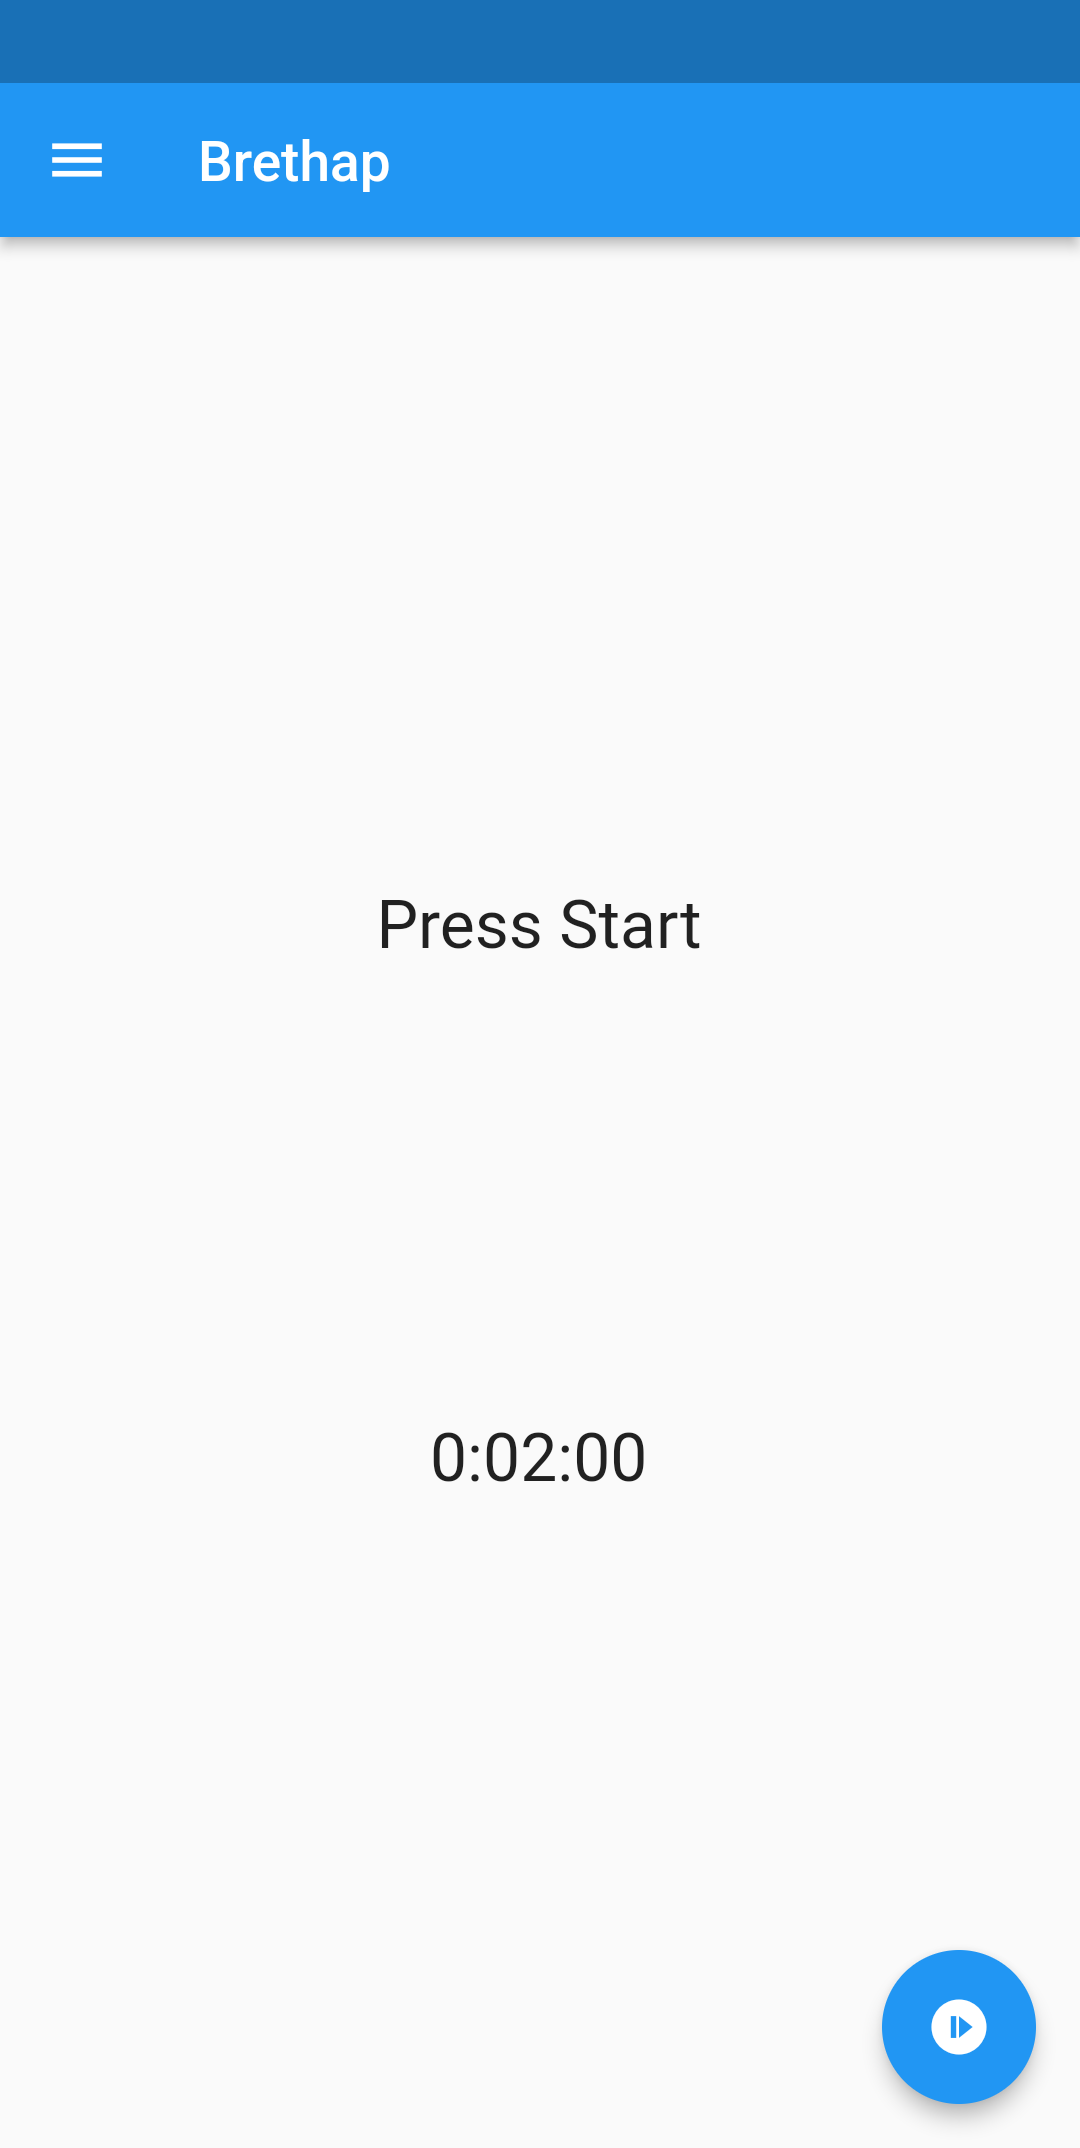
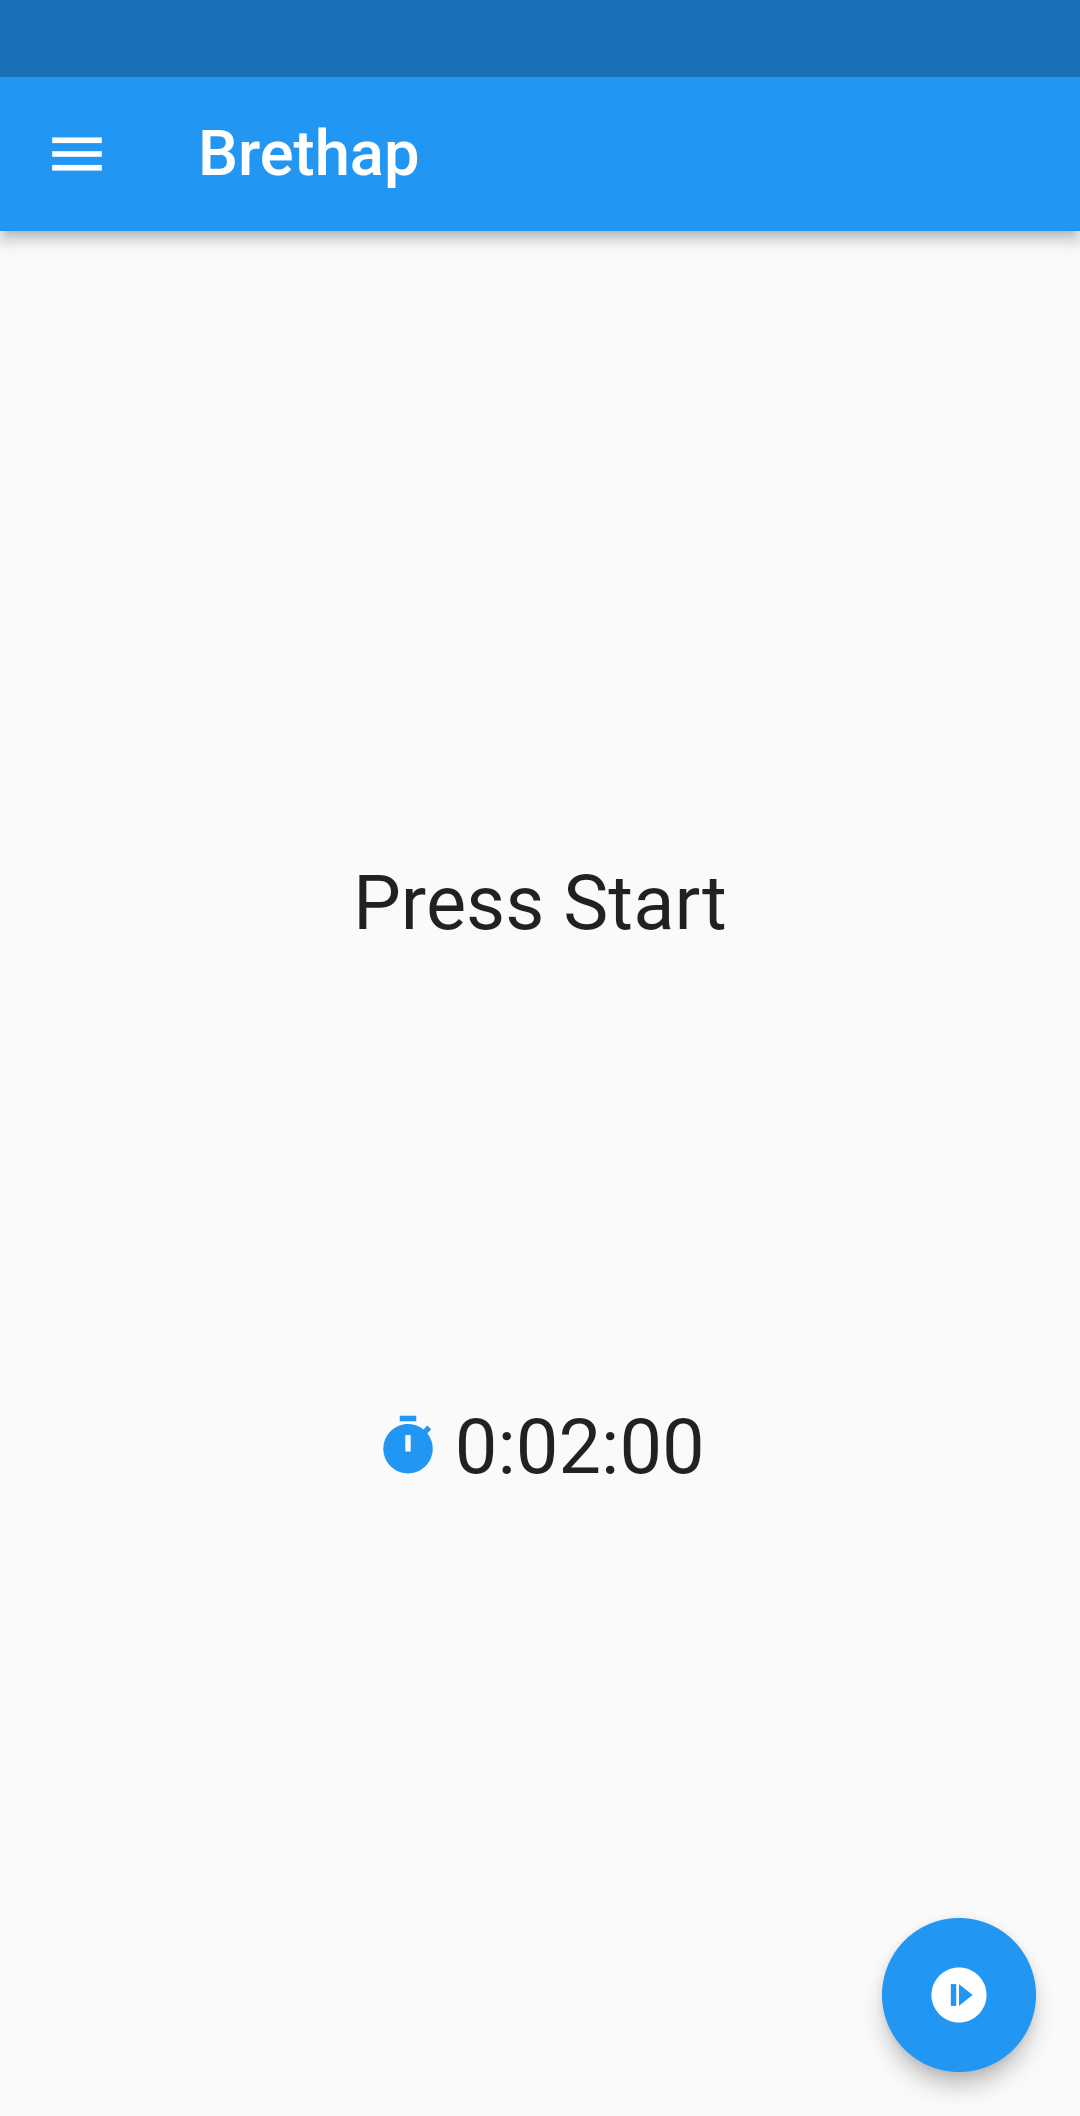
#73: UI enhancements

diff --git a/lib/home_widget.dart b/lib/home_widget.dart
@@ -494,11 +494,18 @@ $url'''),
                         ),
                       ),
                     ))),
-            Text(
-              getDurationString(_duration),
-              style: Theme.of(context).textTheme.headline5,
-              semanticsLabel: getDurationString(_duration),
-            ),
+            Row(mainAxisAlignment: MainAxisAlignment.center, children: [
+              Icon(
+                Icons.timer,
+                color: Theme.of(context).primaryColor,
+              ),
+              const SizedBox(width: 5),
+              Text(
+                getDurationString(_duration),
+                style: Theme.of(context).textTheme.headline5,
+                semanticsLabel: getDurationString(_duration),
+              ),
+            ]),
           ],
         ),
       ),
@@ -520,41 +527,53 @@ $url'''),
               key: Key(HomeWidget.keyPreferences),
               title: Text(AppLocalizations.of(context).preferences),
               leading: const Icon(Icons.settings),
-              onTap: () {
+              onTap: () async {
                 _isRunning = false;
-                Navigator.push(
+                await Navigator.push(
                     context,
                     MaterialPageRoute(
                       builder: (context) => PreferencesWidget(
                           preferences: widget.preferences,
                           callback: _preferenceUpdated),
                     ));
+
+                // closes drawer
+                if (!mounted) return;
+                Navigator.pop(context);
               },
             ),
             ListTile(
               key: Key(HomeWidget.keySessions),
               title: Text(AppLocalizations.of(context).sessions),
               leading: const Icon(Icons.format_list_numbered_outlined),
-              onTap: () {
-                Navigator.push(
+              onTap: () async {
+                await Navigator.push(
                   context,
                   MaterialPageRoute(
                       builder: (context) =>
                           SessionsWidget(sessions: widget.sessions)),
                 );
+
+                // closes drawer
+                if (!mounted) return;
+                Navigator.pop(context);
               },
             ),
             ListTile(
                 key: Key(HomeWidget.keyCalendar),
                 title: Text(AppLocalizations.of(context).calendar),
                 leading: const Icon(Icons.calendar_today),
-                onTap: () {
-                  Navigator.push(
+                onTap: () async {
+                  await Navigator.push(
                     context,
                     MaterialPageRoute(
                         builder: (context) =>
                             SessionsCalendarWidget(sessions: widget.sessions)),
                   );
+
+                  // closes drawer
+                  if (!mounted) return;
+                  Navigator.pop(context);
                 }),
             SafeArea(
               child: AboutListTile(

diff --git a/integration_test/demo_test.dart b/integration_test/demo_test.dart
@@ -133,9 +133,6 @@ Future<void> main() async {
       // go back
       await goBack(tester);
 
-      // close drawer
-      await closeDrawer(tester);
-
       await tester.pump(wait);
       envVars += "SESSIONS_END=${stopwatch.elapsed - wait}\n";
 
@@ -184,9 +181,6 @@ Future<void> main() async {
 
       // go back
       await goBack(tester);
-
-      // close drawer
-      await closeDrawer(tester);
 
       await tester.pump(wait);
       envVars += "CALENDAR_END=${stopwatch.elapsed - wait}\n";
@@ -352,9 +346,6 @@ Future<void> main() async {
 
       // go back
       await goBack(tester);
-
-      // close drawer
-      await closeDrawer(tester);
 
       await tester.pump(wait);
       envVars += "PREFERENCES_END=${stopwatch.elapsed - wait}\n";

diff --git a/integration_test/app_test.dart b/integration_test/app_test.dart
@@ -44,19 +44,21 @@ Future<void> main() async {
 
     await goBack(tester);
 
+    await openDrawer(tester);
+
     await tapItem(tester, HomeWidget.keySessions);
 
     await testSessionsWidget(tester);
 
     await goBack(tester);
 
+    await openDrawer(tester);
+
     await tapItem(tester, HomeWidget.keyCalendar);
 
     await testSessionsCalendarWidget(tester);
 
     await goBack(tester);
-
-    await closeDrawer(tester);
 
     //await tester.pump(const Duration(seconds: 10));
   });

diff --git a/lib/main.dart b/lib/main.dart
@@ -94,7 +94,7 @@ class MainWidget extends StatelessWidget {
         primarySwatch: primaryColor,
         canvasColor: backgroundColor,
       ),
-      darkTheme: ThemeData.dark(),
+      darkTheme: ThemeData.dark().copyWith(primaryColor: Colors.blue),
       localizationsDelegates: AppLocalizations.localizationsDelegates,
       supportedLocales: AppLocalizations.supportedLocales,
       home: HomeWidget(
